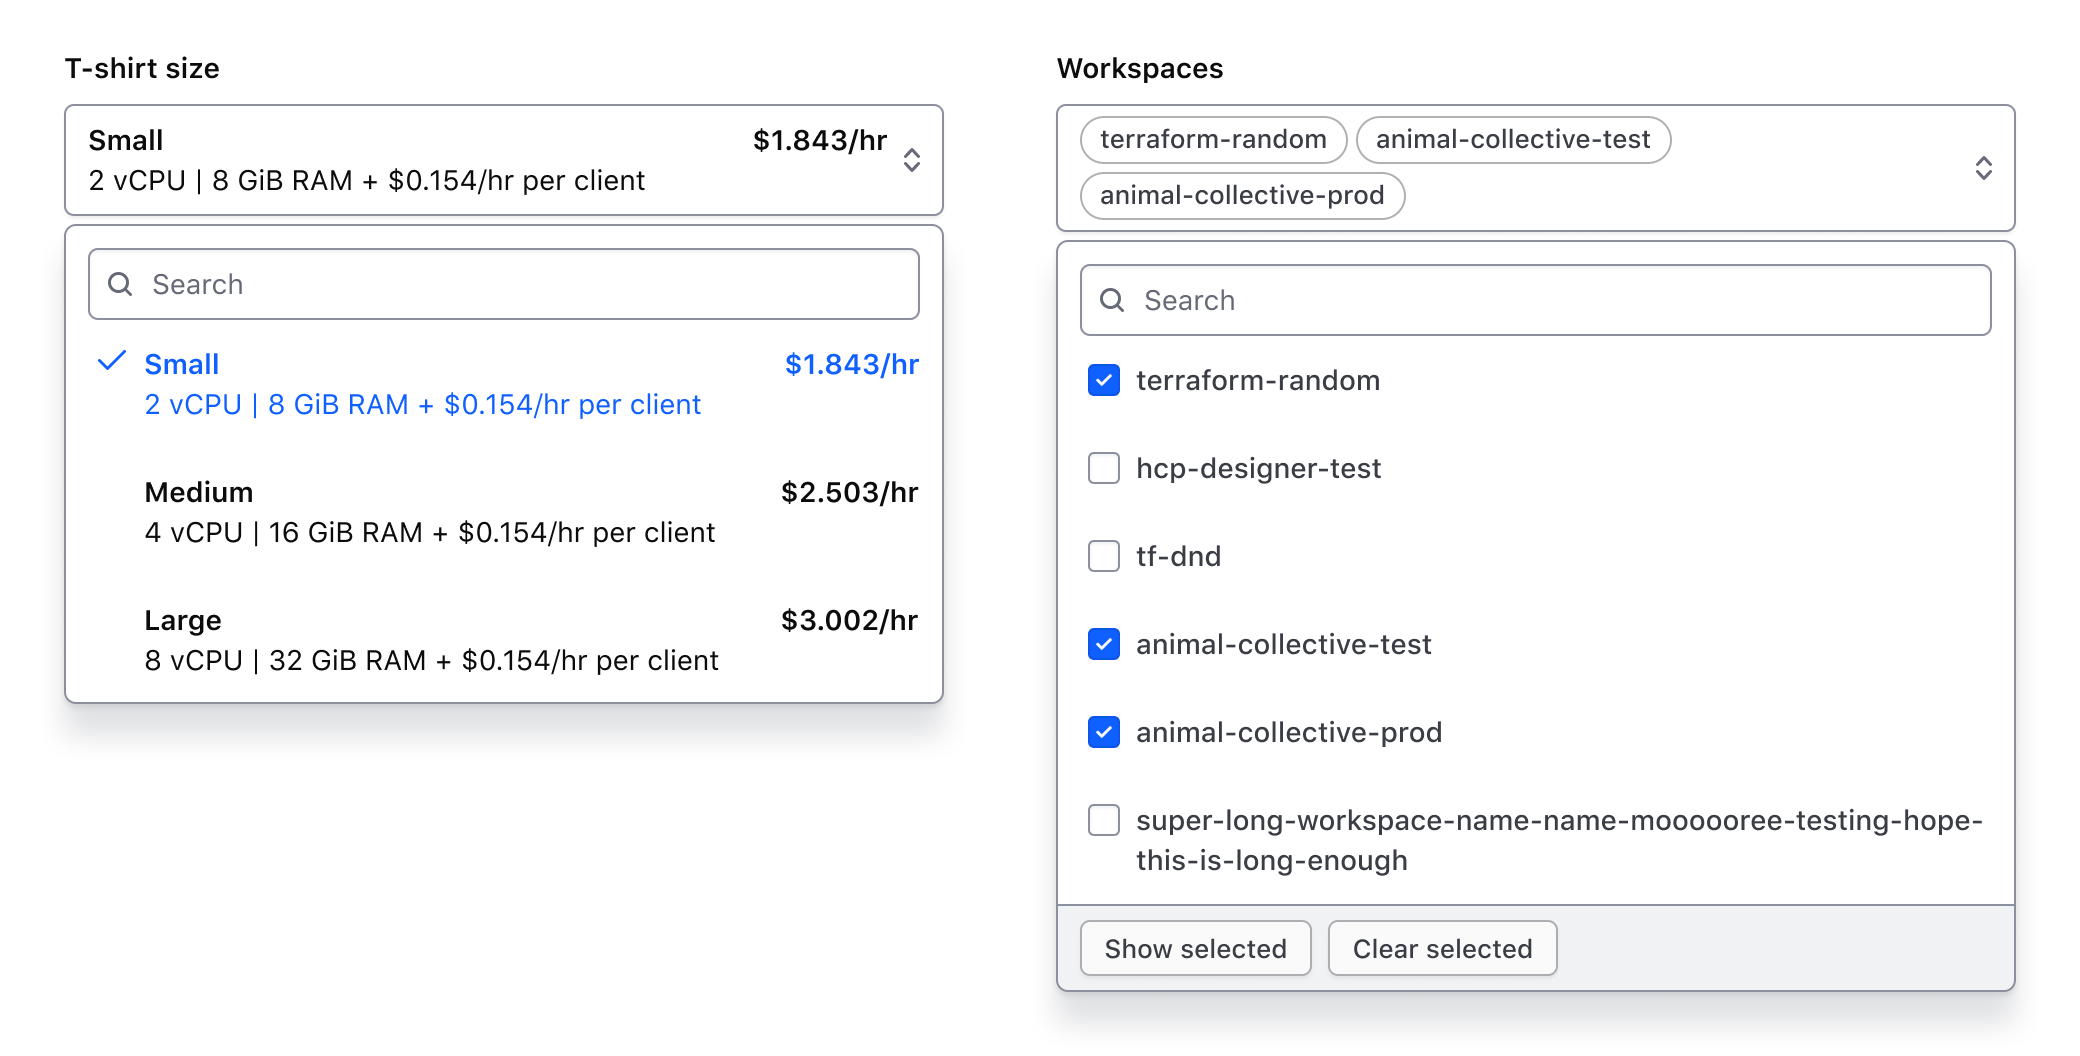
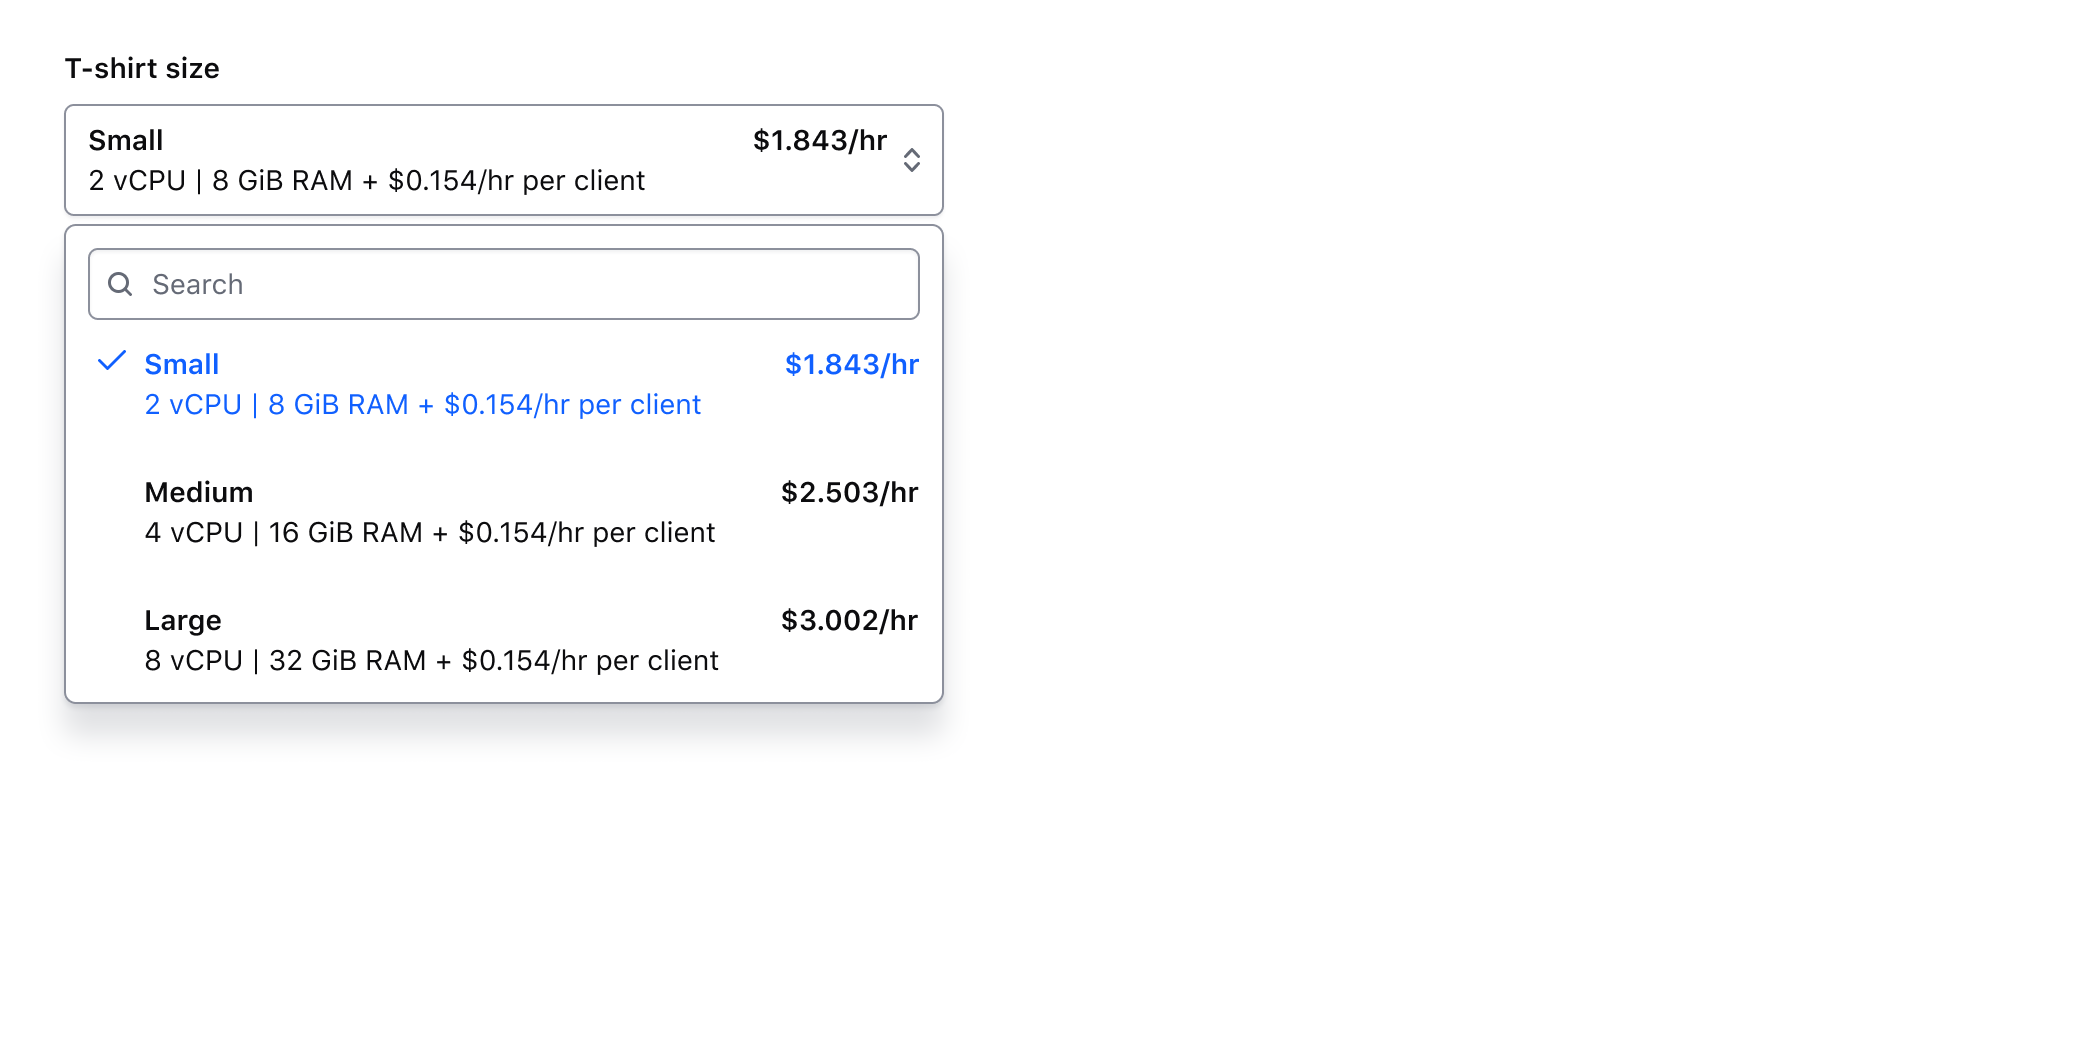
Updated guidelines to explain that the multiple component has search in the trigger and is an accessibility issue we are working on. Also updated the image to only show single select

diff --git a/website/docs/components/form/super-select/partials/guidelines/guidelines.md b/website/docs/components/form/super-select/partials/guidelines/guidelines.md
@@ -53,7 +53,13 @@ The before and after options are areas above and below the list, independent fro
 
 ### BeforeOptions
 
-BeforeOptions allows for either a search field or custom content to be displayed before the options list. Applicable to both Single and Multiple variants.
+BeforeOptions allows for either a search field or custom content to be displayed before the options list. Applicable to both Single and Multiple components.
+
+!!! Warning
+
+Currently, the Multiple component only supports search in the trigger and is considered an accessibility issue (nested interactive). This is something we are working to improve in collaboration with the PowerSelect team.
+
+!!!
 
 #### Search
 
